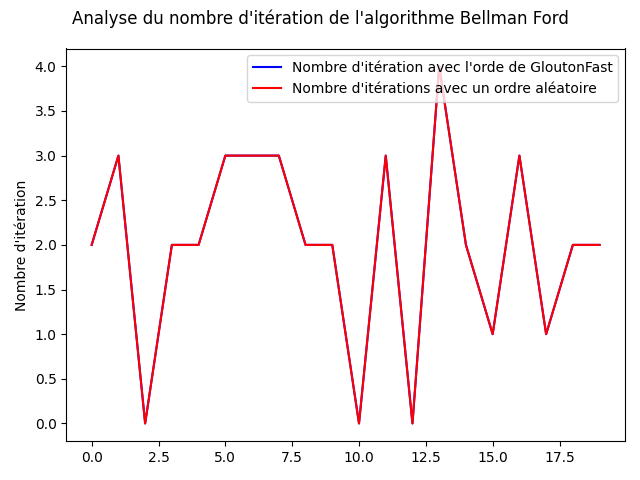
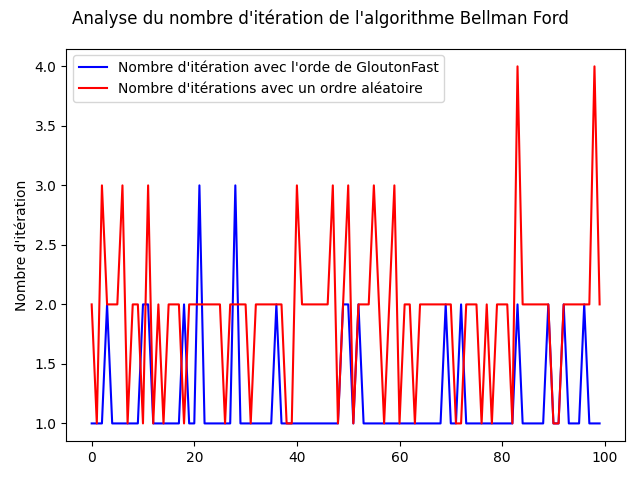
Factorisation

diff --git a/test_bellman.py b/test_bellman.py
@@ -38,125 +38,59 @@ print(bf.GloutonFas(G))
 
 
 #ut.draw_graph(ut.genrartion_de_graphes(G))
-N = 5
-p = 0.4
+N = 5 # Nombre de noeuds
+p = 0.4 # Probabilité de présence d'une arête 
 
-def main() :
-    #-------------------Question 3 & 4 ----------------------------
-    #génération d'un graph G
-    # G = nx.erdos_renyi_graph(N, p, directed=True)
+def generation_graphes_test(G,n):
+    """Generation de N grapes avec des poids differents"""
+    graphes = []
+    for i in range(n):
+        graphes.append(ut.genrartion_de_graphes(G))
+    return graphes
 
-    # G1 = ut.genrartion_de_graphes(G)
-    # print("ff")
-    # G2 = ut.genrartion_de_graphes(G)
-    # print("ff")
-
-    # G3 = ut.genrartion_de_graphes(G)
-    # print("ff")
-    
-    # H = ut.genrartion_de_graphes(G)
-    # print("ff")
-    
-    # source =  ut.source(G)
-    # print("ff")
-
-    # #------------------- Question 4 ----------------------------
-    # G1_BF = bf.bellman_ford(G1 , source)[0]  
-    # print("ff")
-
-    # G2_BF = bf.bellman_ford(G2 , source)[0] 
-    # print("ff")
-
-    # G3_BF = bf.bellman_ford(G3 , source)[0]  
-
-    # print("source", source)
-
-    # pos = ut.draw_graph(G1,"G1")
-
-    # ut.draw_graph(G1_BF,"G1_BF" , pos)
-    # ut.draw_graph(G2,"G2", pos)       
-    # ut.draw_graph(G2_BF,"G2_BF" , pos)
-    # ut.draw_graph(G3,"G3", pos)
-    # ut.draw_graph(G3_BF,"G3_BF" , pos)
-
-    # T = ut.union(G1_BF , G2_BF , G3_BF) 
-
-    # ut.draw_graph(T,"T",pos)
-
-    # #----------------- Question 5 -------------------------------
-    # ordre = bf.GloutonFas(T)
-
-    # #----------------- Question 6 -------------------------------
-    # H_BF , nb_iter= bf.bellman_ford(H , source , ordre)
-    # print("Le nombre d'itération avec l'ordre ", ordre," est : ", nb_iter)
-    # ut.draw_graph(H_BF,"H_BF" , pos)
-
-    # #----------------- Question 7 -------------------------------
-    # ordre_alea  = list(range(G.number_of_nodes()))
-    # random.shuffle(ordre_alea)
-
-    # H_BF_alea , nb_iter= bf.bellman_ford(H , source , ordre_alea)
-    # print("Le nombre d'itération avec l'ordre ", ordre_alea," est : ", nb_iter)
-    # ut.draw_graph(H_BF_alea,"H_BF" , pos)
+def bellman_ford_liste (graphes,source):
+    """on applique bellman ford sur la liste des graphe et on revoit l'union de ces plus courts chemins"""
+    bfs = []
+    for g in graphes:
+        bfs.append(bf.bellman_ford(g , source)[0] )
+    return bfs
 
 
-    #----------------- Question 9 -------------------------------
-    iterations = 20
+def comparaison_avec_et_sans_pretraitement(iterations,n,p,nb_G):
     nb_iter_with_gloutonFas_ordre= []
     nb_iter_alea = []
+
     for i in range(iterations) :
         print("iteration",i)
         #génération d'un graph G
-        G = nx.erdos_renyi_graph(N, p, directed=True)
+        G = None
 
-        G1 = ut.genrartion_de_graphes(G)
-        G2 = ut.genrartion_de_graphes(G)
-        G3 = ut.genrartion_de_graphes(G)
-        G4 = ut.genrartion_de_graphes(G)
-        G5 = ut.genrartion_de_graphes(G)
-        G6 = ut.genrartion_de_graphes(G)
-        G7 = ut.genrartion_de_graphes(G)
-        G8 = ut.genrartion_de_graphes(G)
-        G9 = ut.genrartion_de_graphes(G)
-        
+        source = None
+        while(True):
+            G = nx.erdos_renyi_graph(n, p, directed=True)
+            source = ut.source(G)
+            if source != None :
+                break
+
+        G_avec_poids_diff = generation_graphes_test(G,nb_G)
 
         H = ut.genrartion_de_graphes(G)
         
-        source =  ut.source(G)
-        
+        Gs_BFs =  bellman_ford_liste(G_avec_poids_diff,source)
 
-        #------------------- Question 4 ----------------------------
-        G1_BF = bf.bellman_ford(G1 , source)[0]  
-        G2_BF = bf.bellman_ford(G2 , source)[0] 
-        G3_BF = bf.bellman_ford(G3 , source)[0]  
-        G4_BF = bf.bellman_ford(G1 , source)[0]  
-        G5_BF = bf.bellman_ford(G2 , source)[0] 
-        G6_BF = bf.bellman_ford(G3 , source)[0]  
-        G7_BF = bf.bellman_ford(G1 , source)[0]  
-        G8_BF = bf.bellman_ford(G2 , source)[0] 
-        G9_BF = bf.bellman_ford(G3 , source)[0]  
+        T = ut.union(Gs_BFs) 
 
-        print("source", source)
+        ordre_optimale = bf.GloutonFas(T)
 
-
-
-        T = ut.union([G1_BF , G2_BF , G3_BF, G4_BF , G5_BF, G6_BF , G3_BF, G7_BF , G8_BF, G9_BF]) 
-
-
-        #----------------- Question 5 -------------------------------
-        ordre = bf.GloutonFas(T)
-
-        #----------------- Question 6 -------------------------------
-        H_BF , nb_iter= bf.bellman_ford(H , source , ordre)
-        print("Le nombre d'itération avec l'ordre ", ordre," est : ", nb_iter)
+        H_BF , nb_iter= bf.bellman_ford(H , source , ordre_optimale)
+        print("Le nombre d'itération avec l'ordre optimale : ", ordre_optimale," est : ", nb_iter)
         nb_iter_with_gloutonFas_ordre.append(nb_iter)
 
-        #----------------- Question 7 -------------------------------
         ordre_alea  = list(range(G.number_of_nodes()))
         random.shuffle(ordre_alea)
 
         H_BF_alea , nb_iter= bf.bellman_ford(H , source , ordre_alea)
-        print("Le nombre d'itération avec l'ordre ", ordre_alea," est : ", nb_iter)
+        print("Le nombre d'itération avec l'ordre aleatoire : ", ordre_alea," est : ", nb_iter)
         nb_iter_alea.append(nb_iter)
 
     plt.plot( nb_iter_with_gloutonFas_ordre, 'b', label="Nombre d'itération avec l'orde de GloutonFast")
@@ -169,6 +103,72 @@ def main() :
     
     plt.show()
 
+
+def main() :
+    #-------------------Question 3---------------------------#
+
+    #génération d'un graph G
+    G = nx.erdos_renyi_graph(N, p, directed=True)
+    G1, G2, G3, H = generation_graphes_test(G,4)
+
+    #-------------------Question 4----------------------------#
+
+    # Choix d'une racine qui atteint au moins |V|/2 sommets : 
+    source =  ut.source(G)
+    print("La source designée est : ", source)
+
+    G1_BF,G2_BF,G3_BF =  bellman_ford_liste([G1,G2,G3],source)
+    #Union des plus courts chemins
+    T = ut.union([ G1_BF,G1_BF,G1_BF ])
+
+    #-------------------Question 5----------------------------#
+
+    #On recupère l'odre optimal renvoyé par l'algo GloutonFas
+    ordre_optimal = bf.GloutonFas(T)
+
+    # Affichage des graphes :
+    #G1
+    pos = ut.draw_graph(G1,"G1")
+    ut.draw_graph(G1_BF,"G1_BF" , pos)
+    #G2
+    ut.draw_graph(G2,"G2", pos)       
+    ut.draw_graph(G2_BF,"G2_BF" , pos)
+    #G3
+    ut.draw_graph(G3,"G3", pos)
+    ut.draw_graph(G3_BF,"G3_BF" , pos)
+    #T
+    ut.draw_graph(T,"T",pos)
+
+    #-------------------Question 6----------------------------#
+
+    # On applique bellman Ford sur H avec l'odre optimal obtenu 
+    H_BF , nb_iter= bf.bellman_ford(H , source , ordre_optimal)
+    print("Le nombre d'itération avec l'ordre optimal : ", ordre_optimal," est : ", nb_iter)
+    
+    #Affichage : 
+    ut.draw_graph(H_BF,"H_BF" , pos)
+    #-------------------Question 7----------------------------#
+
+    # On applique bellman Ford sur H avec un ordre aletoire obtenu 
+    ordre_alea  = list(range(G.number_of_nodes()))
+    random.shuffle(ordre_alea)  
+    H_BF_alea , nb_iter= bf.bellman_ford(H , source , ordre_alea)
+    print("Le nombre d'itération avec l'ordre aleatoire : ", ordre_alea," est : ", nb_iter)
+    
+    #Affichage :
+    ut.draw_graph(H_BF_alea,"H_BF" , pos)
+
+
+
+    #------------------- Question 9 ---------------------------#
+    iterations = 100
+    comparaison_avec_et_sans_pretraitement(iterations,N,p,3)
+
+
+    #----------------- Question 10 ----------------------------#
+
+    #Ici on peut passer en parametres le nombre de graphe qu'on l'on souhaiterai utiliser 
+    comparaison_avec_et_sans_pretraitement(iterations,N,p,5)
 
 if __name__ == "__main__":
     main()

diff --git a/bellman_ford_algo.py b/bellman_ford_algo.py
@@ -6,45 +6,6 @@ def bellman_ford(G , source, ordre = None):
     """
     Ajouter le nb d'itérations
     """
-
-    ordre_traitement = list(G.nodes)
-    if ordre!= None :
-        ordre_traitement = ordre
-    plus_courts_chemins = [] 
-    distance = dict.fromkeys(list(G.nodes) , [math.inf, None])
-    distance [source] = [0,None]
-    plus_courts_chemins.append(distance)
-    nb_etapes = 1
-
-    while(True): 
-        nouveaux_plus_courts_chemins = plus_courts_chemins[nb_etapes-1].copy()
-        for sommet in ordre_traitement :
-            etape_precedente = plus_courts_chemins[nb_etapes-1]
-            for v in list(G.predecessors(sommet) ):
-                new_chemin =  etape_precedente[v][0] + G.get_edge_data(v,sommet)['weight']
-
-                if new_chemin < nouveaux_plus_courts_chemins[sommet][0]:
-                    nouveaux_plus_courts_chemins[sommet] = [new_chemin,v]
-            
-
-        if ut.sont_similaires(nouveaux_plus_courts_chemins,plus_courts_chemins[nb_etapes-1]):
-            plus_courts_chemins.append(nouveaux_plus_courts_chemins)
-            new_G = nx.DiGraph()
-            distance = plus_courts_chemins[nb_etapes-1]
-            for v in list(G.nodes) :
-                s = distance[v][1]
-                if s != None :
-                    new_G.add_edge(s, v, weight=G.get_edge_data(s, v)['weight'])
-            return new_G , nb_etapes-1
-        else : 
-            nb_etapes += 1
-            plus_courts_chemins.append(nouveaux_plus_courts_chemins)
-
-
-def bellman_ford_2(G , source, ordre = None):
-    """
-    Ajouter le nb d'itérations
-    """
     N = len(list(G.nodes))
     ordre_traitement = list(G.nodes)
     if ordre!= None :
@@ -61,7 +22,7 @@ def bellman_ford_2(G , source, ordre = None):
         for sommet in ordre_traitement :
             etape_precedente = plus_courts_chemins[nb_etapes - 1]
             for v in list(G.predecessors(sommet) ):
-                new_chemin =  etape_precedente[v][0] + G.get_edge_data(v,sommet)['weight']
+                new_chemin =  nouveaux_plus_courts_chemins[v][0] + G.get_edge_data(v,sommet)['weight']
 
                 if new_chemin < nouveaux_plus_courts_chemins[sommet][0]:
                     nouveaux_plus_courts_chemins[sommet] = [new_chemin,v]
@@ -72,7 +33,6 @@ def bellman_ford_2(G , source, ordre = None):
         
     new_G = nx.DiGraph()
     distance = plus_courts_chemins[nb_etapes -1]
-    print(plus_courts_chemins )
     for v in list(G.nodes) :
         s = distance[v][1]
         if s != None :
